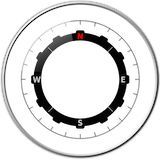
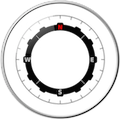
Minor updates

diff --git a/scrollalot/ScrollScene.m b/scrollalot/ScrollScene.m
@@ -33,8 +33,8 @@ static NSString *kHadComboKey = @"had_combo";
 @property (nonatomic) NSTimeInterval speedCheckInterval;
 @property (nonatomic) NSTimeInterval lastSpeedCheckInterval;
 
-@property (nonatomic) NSMutableArray *verticalMarkers;
-@property (nonatomic) NSMutableArray *horizontalMarkers;
+//@property (nonatomic) NSMutableArray *verticalMarkers;
+//@property (nonatomic) NSMutableArray *horizontalMarkers;
 @property (nonatomic) MarkerObject *mainMarker;
 @property (nonatomic) CGPoint lastMarkerPosition;
 @property (nonatomic) CGFloat lastSpeedCheckDistance;
@@ -57,7 +57,7 @@ static NSString *kHadComboKey = @"had_combo";
 @property (nonatomic) SKEmitterNode *leftRouteEmitter;
 @property (nonatomic) SKEmitterNode *rightRouteEmitter;
 
-//@property (nonatomic) SKEmitterNode *bgEmitter;
+@property (nonatomic) SKEmitterNode *bgEmitter;
 
 @property (nonatomic) MarkerObject *compass_arrow;
 @property (nonatomic) MarkerObject *compass;
@@ -123,9 +123,9 @@ static BOOL startWithTutorials = YES;
         self.backgroundColor = [UIColor whiteColor];
         self.speedCheckInterval = 2.0;
         self.globalProps = [GlobalAppProperties sharedInstance];
-        self.verticalMarkers = [NSMutableArray array];
-        self.horizontalMarkers = [NSMutableArray array];
-        self.isDarkStyle = NO;
+        //self.verticalMarkers = [NSMutableArray array];
+        //self.horizontalMarkers = [NSMutableArray array];
+        self.isDarkStyle = YES;
         if (self.isDarkStyle) {
             self.backgroundColor = [UIColor blackColor];
         } else {
@@ -231,10 +231,10 @@ static BOOL startWithTutorials = YES;
     [self addChild:self.leftEmitter];
     [self addChild:self.rightEmitter];
     
-    /*emitterPath = [[NSBundle mainBundle] pathForResource:@"RouteEffect" ofType:@"sks"];
+    emitterPath = [[NSBundle mainBundle] pathForResource:@"BgEffect" ofType:@"sks"];
     self.bgEmitter = [NSKeyedUnarchiver unarchiveObjectWithFile:emitterPath];
     self.bgEmitter.position = CGPointMake(self.size.width / 2.0, self.size.height /2.0);
-    [self addChild:self.bgEmitter];*/
+    [self addChild:self.bgEmitter];
     
     emitterPath = [[NSBundle mainBundle] pathForResource:@"RouteEffect" ofType:@"sks"];
     self.topRouteEmitter = [NSKeyedUnarchiver unarchiveObjectWithFile:emitterPath];
@@ -256,6 +256,7 @@ static BOOL startWithTutorials = YES;
     self.rightRouteEmitter.particlePositionRange = CGVectorMake(30, 80);
     self.rightRouteEmitter.emissionAngle = 180 * degreeInRadians;
     
+    self.topEmitter.targetNode = self.bottomEmitter.targetNode = self.rightEmitter.targetNode = self.leftEmitter.targetNode = self;
     self.rightRouteEmitter.particleBirthRate = self.leftRouteEmitter.particleBirthRate = self.topRouteEmitter.particleBirthRate = self.bottomRouteEmitter.particleBirthRate = 0;
     
     [self addChild:self.topRouteEmitter];
@@ -294,7 +295,7 @@ static BOOL startWithTutorials = YES;
         [self addChild:verticalBottom];
     }*/
     
-    MarkerObject *leftMarker = [[MarkerObject alloc] initWithColor:markerColor size:CGSizeMake(200, 5)];
+    /*MarkerObject *leftMarker = [[MarkerObject alloc] initWithColor:markerColor size:CGSizeMake(200, 5)];
     leftMarker.position = CGPointMake(0, self.size.height / 2.0);
     [self.horizontalMarkers addObject:leftMarker];
     [self addChild:leftMarker];
@@ -312,7 +313,7 @@ static BOOL startWithTutorials = YES;
     MarkerObject *bottomMarker = [[MarkerObject alloc] initWithColor:markerColor size:CGSizeMake(5, 300)];
     bottomMarker.position = CGPointMake(self.size.width / 2.0, 0);
     [self.verticalMarkers addObject:bottomMarker];
-    [self addChild:bottomMarker];
+    [self addChild:bottomMarker];*/
     
     SKShapeNode *distanceBox = [SKShapeNode node];
     [distanceBox setPath:CGPathCreateWithRoundedRect(CGRectMake(self.size.width - 150, self.size.height - 80, 130, 50), 8, 8, nil)];
@@ -572,8 +573,8 @@ static BOOL startWithTutorials = YES;
     //_topRouteEmitter.yAcceleration = _bottomRouteEmitter.yAcceleration = _mainMarker.physicsBody.velocity.dy;
     //_leftRouteEmitter.yAcceleration = _rightRouteEmitter.yAcceleration = _mainMarker.physicsBody.velocity.dy / 10;
     
-    self.topEmitter.xAcceleration = self.bottomEmitter.xAcceleration = self.leftEmitter.xAcceleration = self.rightEmitter.xAcceleration = _mainMarker.physicsBody.velocity.dx;
-    self.topEmitter.yAcceleration = self.bottomEmitter.yAcceleration = self.leftEmitter.yAcceleration = self.rightEmitter.yAcceleration = _mainMarker.physicsBody.velocity.dy;
+    self.topEmitter.xAcceleration = self.bottomEmitter.xAcceleration = self.leftEmitter.xAcceleration = self.rightEmitter.xAcceleration = _bgEmitter.xAcceleration = _mainMarker.physicsBody.velocity.dx;
+    self.topEmitter.yAcceleration = self.bottomEmitter.yAcceleration = self.leftEmitter.yAcceleration = self.rightEmitter.yAcceleration = _bgEmitter.yAcceleration = _mainMarker.physicsBody.velocity.dy;
     
     self.topEmitter.particleRotation = self.bottomEmitter.particleRotation = self.leftEmitter.particleRotation = self.rightEmitter.particleRotation = atan2(_mainMarker.physicsBody.velocity.dx, -_mainMarker.physicsBody.velocity.dy);
     self.topRouteEmitter.particleRotation = self.bottomRouteEmitter.particleRotation = self.leftRouteEmitter.particleRotation = self.rightRouteEmitter.particleRotation = atan2(_mainMarker.physicsBody.velocity.dx, -_mainMarker.physicsBody.velocity.dy);
@@ -583,7 +584,7 @@ static BOOL startWithTutorials = YES;
 
 -(void)updateWithTimeSinceLastUpdate:(CFTimeInterval)timeSinceLast
 {
-    for (SKSpriteNode *marker in _horizontalMarkers) {
+    /*for (SKSpriteNode *marker in _horizontalMarkers) {
         if (marker.position.y < -marker.size.height / 2.0) {
             marker.position = CGPointMake(marker.position.x, self.size.height + marker.size.height / 2.0);
         } else if (marker.position.y > self.size.height + marker.size.height / 2.0) {
@@ -597,7 +598,7 @@ static BOOL startWithTutorials = YES;
         } else if (marker.position.x > self.size.width + marker.size.width / 2.0) {
             marker.position = CGPointMake(-marker.size.width / 2.0, marker.position.y);
         }
-    }
+    }*/
     
     CGFloat distanceDiffX = fabs(_lastMarkerPosition.x - _mainMarker.position.x);
     CGFloat distanceDiffY = fabs(_lastMarkerPosition.y - _mainMarker.position.y);
@@ -738,7 +739,7 @@ static BOOL startWithTutorials = YES;
         //_compass_arrow.zRotation = ((self.size.height / 2.0 - _mainMarker.position.y) / ((self.size.height + _mainMarker.size.height) / 2.0)) * M_PI;
     }
     
-    for (MarkerObject *marker in _horizontalMarkers) {
+    /*for (MarkerObject *marker in _horizontalMarkers) {
         CGFloat distanceFromMiddle = fabs(self.size.height / 2.0 - marker.position.y) / ((self.size.height + marker.size.height) / 2.0) + 0.6;
         marker.xScale = distanceFromMiddle;
         distanceFromMiddle -= 0.4;
@@ -750,7 +751,7 @@ static BOOL startWithTutorials = YES;
         marker.yScale = distanceFromMiddle;
         distanceFromMiddle -= 0.45;
         marker.alpha = distanceFromMiddle * distanceFromMiddle;
-    }
+    }*/
     
     if (_distance * 1000 > _initialDistance * 1000 + 10) {
         _initialDistance = _distance;
@@ -805,12 +806,12 @@ static BOOL startWithTutorials = YES;
         }
         
         [self.mainMarker.physicsBody applyImpulse:CGVectorMake(velocity.x, -velocity.y)];
-        for (SKSpriteNode *marker in _horizontalMarkers) {
+        /*for (SKSpriteNode *marker in _horizontalMarkers) {
             [marker.physicsBody applyImpulse:CGVectorMake(0, -velocity.y)];
         }
         for (MarkerObject *marker in _verticalMarkers) {
             [marker.physicsBody applyImpulse:CGVectorMake(velocity.x, 0)];
-        }
+        }*/
     }
 }
 
@@ -826,7 +827,7 @@ static BOOL startWithTutorials = YES;
 -(void)addTextArray:(NSArray *)textArray completion:(void(^)())completion andInterval:(float)interval
 {
     SKLabelNode *textLabel = [SKLabelNode labelNodeWithFontNamed:@"ArialMT"];
-    textLabel.fontColor = [UIColor blackColor];
+    textLabel.fontColor = [UIColor whiteColor];
     textLabel.fontSize = 25;
     
     NSMutableArray *textActions = [NSMutableArray array];
@@ -940,13 +941,18 @@ static BOOL startWithTutorials = YES;
     
     //NSLog(@"Impulse: (%f, %f)", bonusImpulse.dx, bonusImpulse.dy);
     
-    [self.mainMarker.physicsBody applyImpulse:bonusImpulse];
-    for (SKSpriteNode *marker in _horizontalMarkers) {
+    [self runAction:[SKAction sequence:@[[SKAction runBlock:^{
+        [_mainMarker.physicsBody applyImpulse:bonusImpulse];
+    }], [SKAction waitForDuration:3], [SKAction runBlock:^{
+        [_routeManager loadNewRoute];
+    }]]]];
+    
+    /*for (SKSpriteNode *marker in _horizontalMarkers) {
         [marker.physicsBody applyImpulse:CGVectorMake(0, bonusImpulse.dy)];
     }
     for (MarkerObject *marker in _verticalMarkers) {
         [marker.physicsBody applyImpulse:CGVectorMake(bonusImpulse.dx, 0)];
-    }
+    }*/
     
     _rightRouteEmitter.particleBirthRate = _leftRouteEmitter.particleBirthRate = _topRouteEmitter.particleBirthRate = _bottomRouteEmitter.particleBirthRate = 0;
     

diff --git a/scrollalot/RouteManager.m b/scrollalot/RouteManager.m
@@ -58,13 +58,13 @@ static int currentPackageIndex = 1;
     
     if (_routeIndex.intValue == _currentRoutePattern.length) {
         //Route complete
-        [_delegate routeCompleted:_currentRouteName];
         _routeIndex = @0;
+        [_delegate routeCompleted:_currentRouteName];
         dispatch_async(dispatch_get_global_queue(DISPATCH_QUEUE_PRIORITY_HIGH, 0), ^{
             if (_currentAchievementId && ![_currentAchievementId isEqualToString:@""]) {
                 [self setCurrentRouteAchieved];
             }
-            [self loadNewRoute];
+            //[self loadNewRoute];
         });
     }
 }
@@ -172,14 +172,17 @@ static int currentPackageIndex = 1;
     __block RouteEntityHelper *result = nil;
     NSManagedObjectContext *context = [DBAccessLayer createManagedObjectContext];
     
-    NSFetchRequest *request = [[NSFetchRequest alloc] initWithEntityName:@"RouteEntity"];
-    NSPredicate *notAchievedPredicate = [NSPredicate predicateWithFormat:@"achieved == NO"];
-    [request setPredicate:notAchievedPredicate];
-    
-    NSSortDescriptor *sortByDistance = [[NSSortDescriptor alloc] initWithKey:@"routeDistance" ascending:YES];
-    [request setSortDescriptors:@[sortByDistance]];
-    
     [context performBlockAndWait:^{
+        float leastDistance = [self getMinimumAvailableRouteDistanceWithContext:context];
+        
+        NSFetchRequest *request = [[NSFetchRequest alloc] initWithEntityName:@"RouteEntity"];
+        NSPredicate *notAchievedPredicate = [NSPredicate predicateWithFormat:@"achieved == NO AND routeDistance == %@", [NSNumber numberWithFloat:leastDistance]];
+        [request setPredicate:notAchievedPredicate];
+        
+        NSSortDescriptor *sortByDistance = [[NSSortDescriptor alloc] initWithKey:@"routeDistance" ascending:YES];
+        [request setSortDescriptors:@[sortByDistance]];
+        
+        
         NSError *error = nil;
         NSArray *routes = [context executeFetchRequest:request error:&error];
         
@@ -199,7 +202,7 @@ static int currentPackageIndex = 1;
 {
     RouteEntityHelper *nextRoute = [self getAvailableRouteWithLeastDistance];
     if (nextRoute) {
-        NSLog(@"Route loaded: %@", nextRoute.routeName);
+        //NSLog(@"Route loaded: %@", nextRoute.routeName);
         _currentRoutePattern = nextRoute.routePattern;
         _currentRouteName = nextRoute.routeName;
         _currentRouteDistance = nextRoute.routeDistance;
@@ -217,6 +220,38 @@ static int currentPackageIndex = 1;
     _currentRoutePattern = route.routePattern;
     _currentAchievementId = nil;
     [_delegate nextRouteLoadedInDirection:[_currentRoutePattern characterAtIndex:0] andDistance:_currentRouteDistance];
+}
+
+-(float)getMinimumAvailableRouteDistanceWithContext:(NSManagedObjectContext *)context
+{
+    NSFetchRequest *fetchRequest = [[NSFetchRequest alloc] init];
+    NSEntityDescription *entity = [NSEntityDescription entityForName:@"RouteEntity"
+                                              inManagedObjectContext:context];
+    [fetchRequest setEntity:entity];
+    [fetchRequest setResultType:NSDictionaryResultType];
+    
+    NSPredicate *notAchievedPredicate = [NSPredicate predicateWithFormat:@"achieved == NO"];
+    [fetchRequest setPredicate:notAchievedPredicate];
+    
+    NSExpression *keyPathExpression = [NSExpression expressionForKeyPath:@"routeDistance"];
+    NSExpression *leastDistanceExpression = [NSExpression
+                                        expressionForFunction:@"min:"
+                                        arguments:[NSArray arrayWithObject:keyPathExpression]];
+    
+    NSExpressionDescription *leastDistanceExpressionDescription =
+    [[NSExpressionDescription alloc] init];
+    [leastDistanceExpressionDescription setName:@"routeDistance"];
+    [leastDistanceExpressionDescription setExpression:leastDistanceExpression];
+    [leastDistanceExpressionDescription setExpressionResultType:NSDecimalAttributeType];
+    
+    [fetchRequest setPropertiesToFetch:[NSArray arrayWithObject:
+                                        leastDistanceExpressionDescription]];
+    NSError *error = nil;
+    NSArray *fetchResults = [context executeFetchRequest:fetchRequest error:&error];
+    NSNumber *distance = [[fetchResults lastObject] valueForKey:@"routeDistance"];
+    
+    return distance.floatValue;
+
 }
 
 @end
